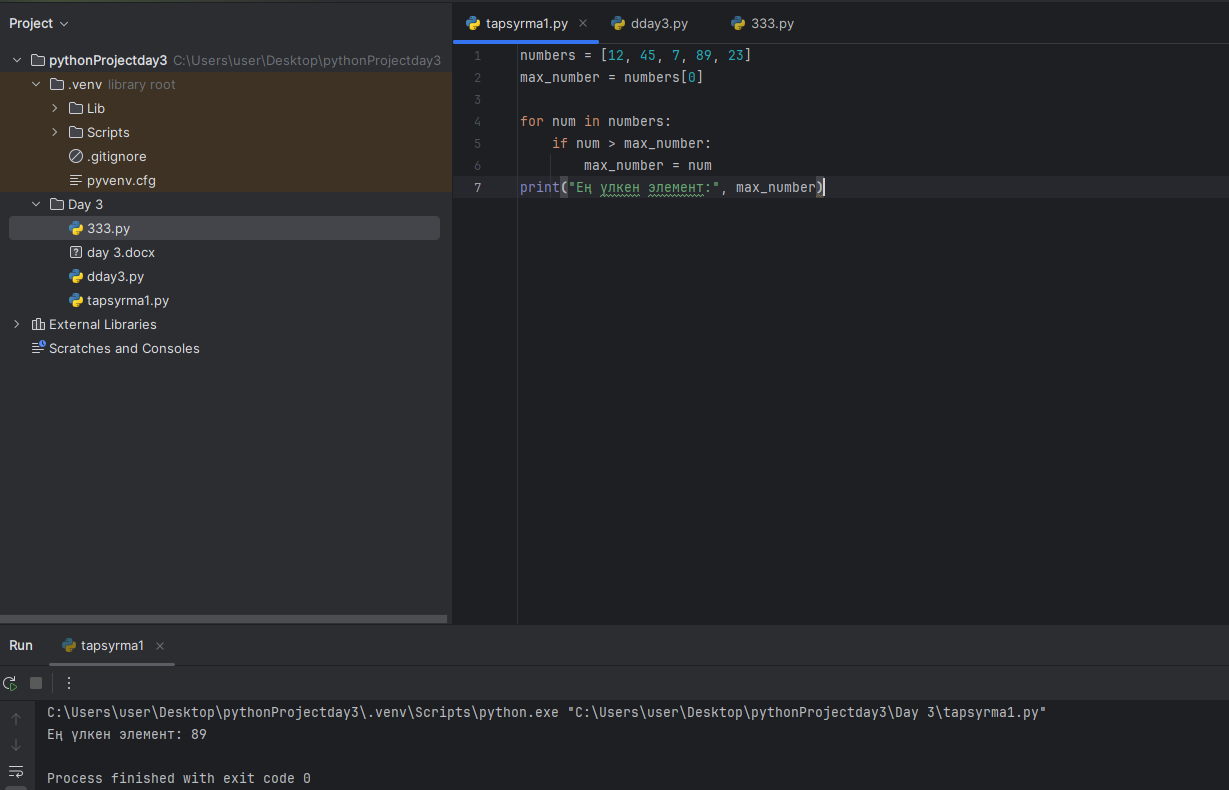
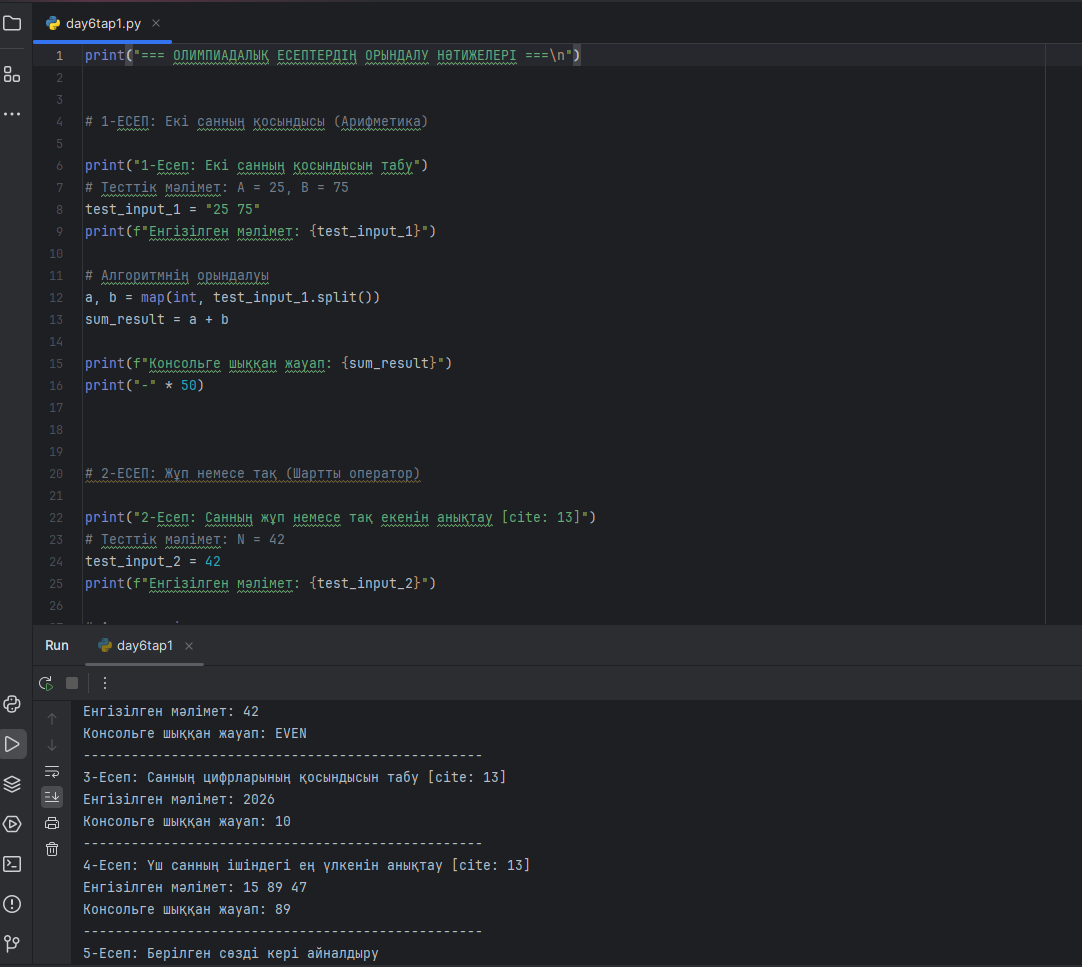
Add files via upload
Day6 practica

diff --git a/day6tap1.py b/day6tap1.py
@@ -1,0 +1,81 @@
+print("=== ОЛИМПИАДАЛЫҚ ЕСЕПТЕРДІҢ ОРЫНДАЛУ НӘТИЖЕЛЕРІ ===\n")
+
+
+# 1-ЕСЕП: Екі санның қосындысы (Арифметика)
+
+print("1-Есеп: Екі санның қосындысын табу")
+# Тесттік мәлімет: А = 25, B = 75
+test_input_1 = "25 75"
+print(f"Енгізілген мәлімет: {test_input_1}")
+
+# Алгоритмнің орындалуы
+a, b = map(int, test_input_1.split())
+sum_result = a + b
+
+print(f"Консольге шыққан жауап: {sum_result}")
+print("-" * 50)
+
+
+
+# 2-ЕСЕП: Жұп немесе тақ (Шартты оператор)
+
+print("2-Есеп: Санның жұп немесе тақ екенін анықтау [cite: 13]")
+# Тесттік мәлімет: N = 42
+test_input_2 = 42
+print(f"Енгізілген мәлімет: {test_input_2}")
+
+# Алгоритмнің орындалуы
+if test_input_2 % 2 == 0:
+    odd_even_result = "EVEN"
+else:
+    odd_even_result = "ODD"
+
+print(f"Консольге шыққан жауап: {odd_even_result}")
+print("-" * 50)
+
+
+
+# 3-ЕСЕП: Цифрлардың қосындысы (Циклдер)
+
+print("3-Есеп: Санның цифрларының қосындысын табу [cite: 13]")
+# Тесттік мәлімет: N = 2026
+test_input_3 = "2026"
+print(f"Енгізілген мәлімет: {test_input_3}")
+
+
+sum_digits = 0
+for digit in test_input_3:
+    sum_digits += int(digit)
+
+print(f"Консольге шыққан жауап: {sum_digits}")
+print("-" * 50)
+
+
+
+# 4-ЕСЕП: Үш санның ең үлкені (Логикалық іріктеу)
+
+print("4-Есеп: Үш санның ішіндегі ең үлкенін анықтау [cite: 13]")
+# Тесттік мәлімет: A = 15, B = 89, C = 47
+test_input_4 = "15 89 47"
+print(f"Енгізілген мәлімет: {test_input_4}")
+
+
+numbers = list(map(int, test_input_4.split()))
+max_result = max(numbers)
+
+print(f"Консольге шыққан жауап: {max_result}")
+print("-" * 50)
+
+
+# 5-ЕСЕП: Сөзді аударып шығару
+
+print("5-Есеп: Берілген сөзді кері айналдыру")
+# Тесттік мәлімет: "ALGORITHMIC" сөзі
+test_input_5 = "ALGORITHMIC"
+print(f"Енгізілген мәлімет: {test_input_5}")
+
+
+reversed_result = test_input_5[::-1]
+
+print(f"Консольге шыққан жауап: {reversed_result}")
+print("=" * 50)
